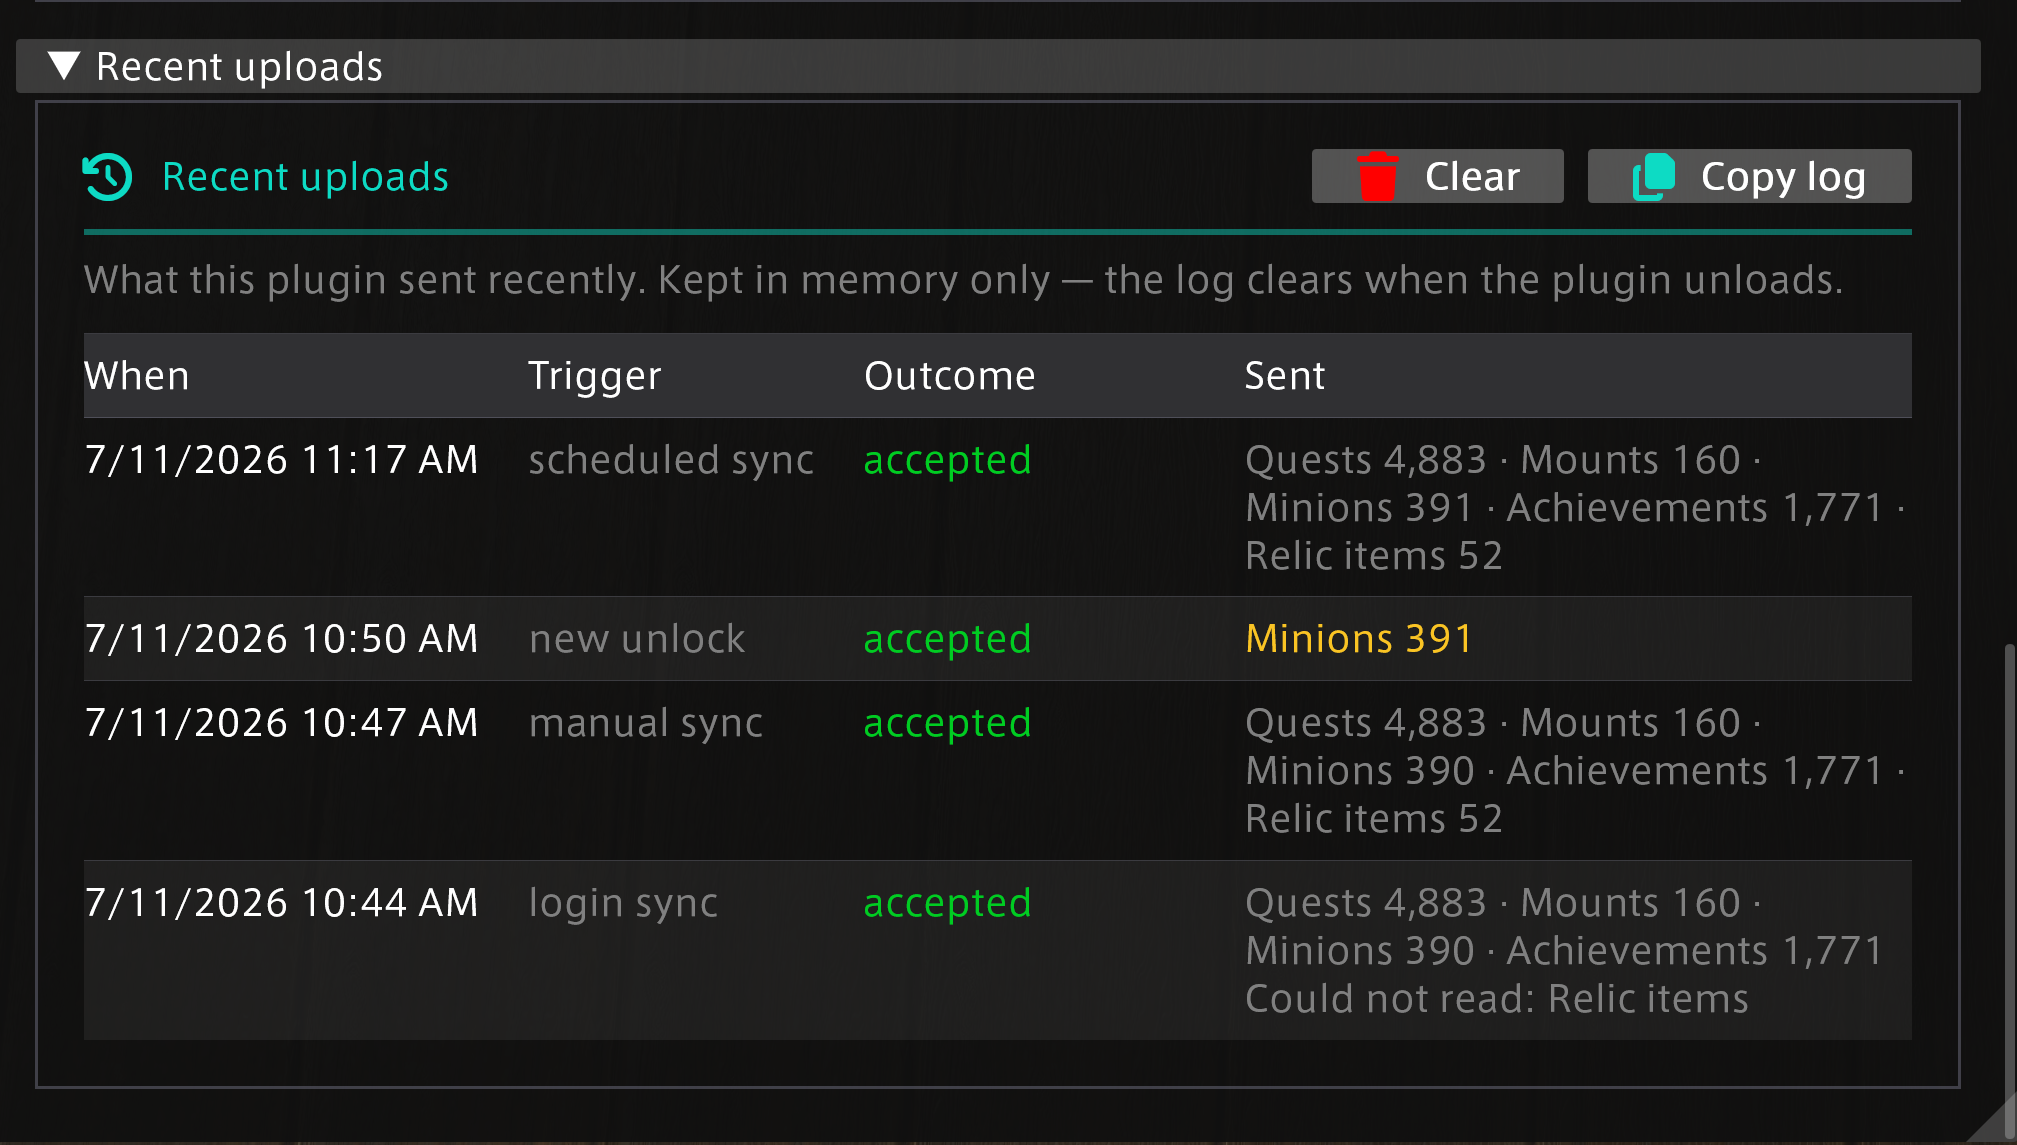
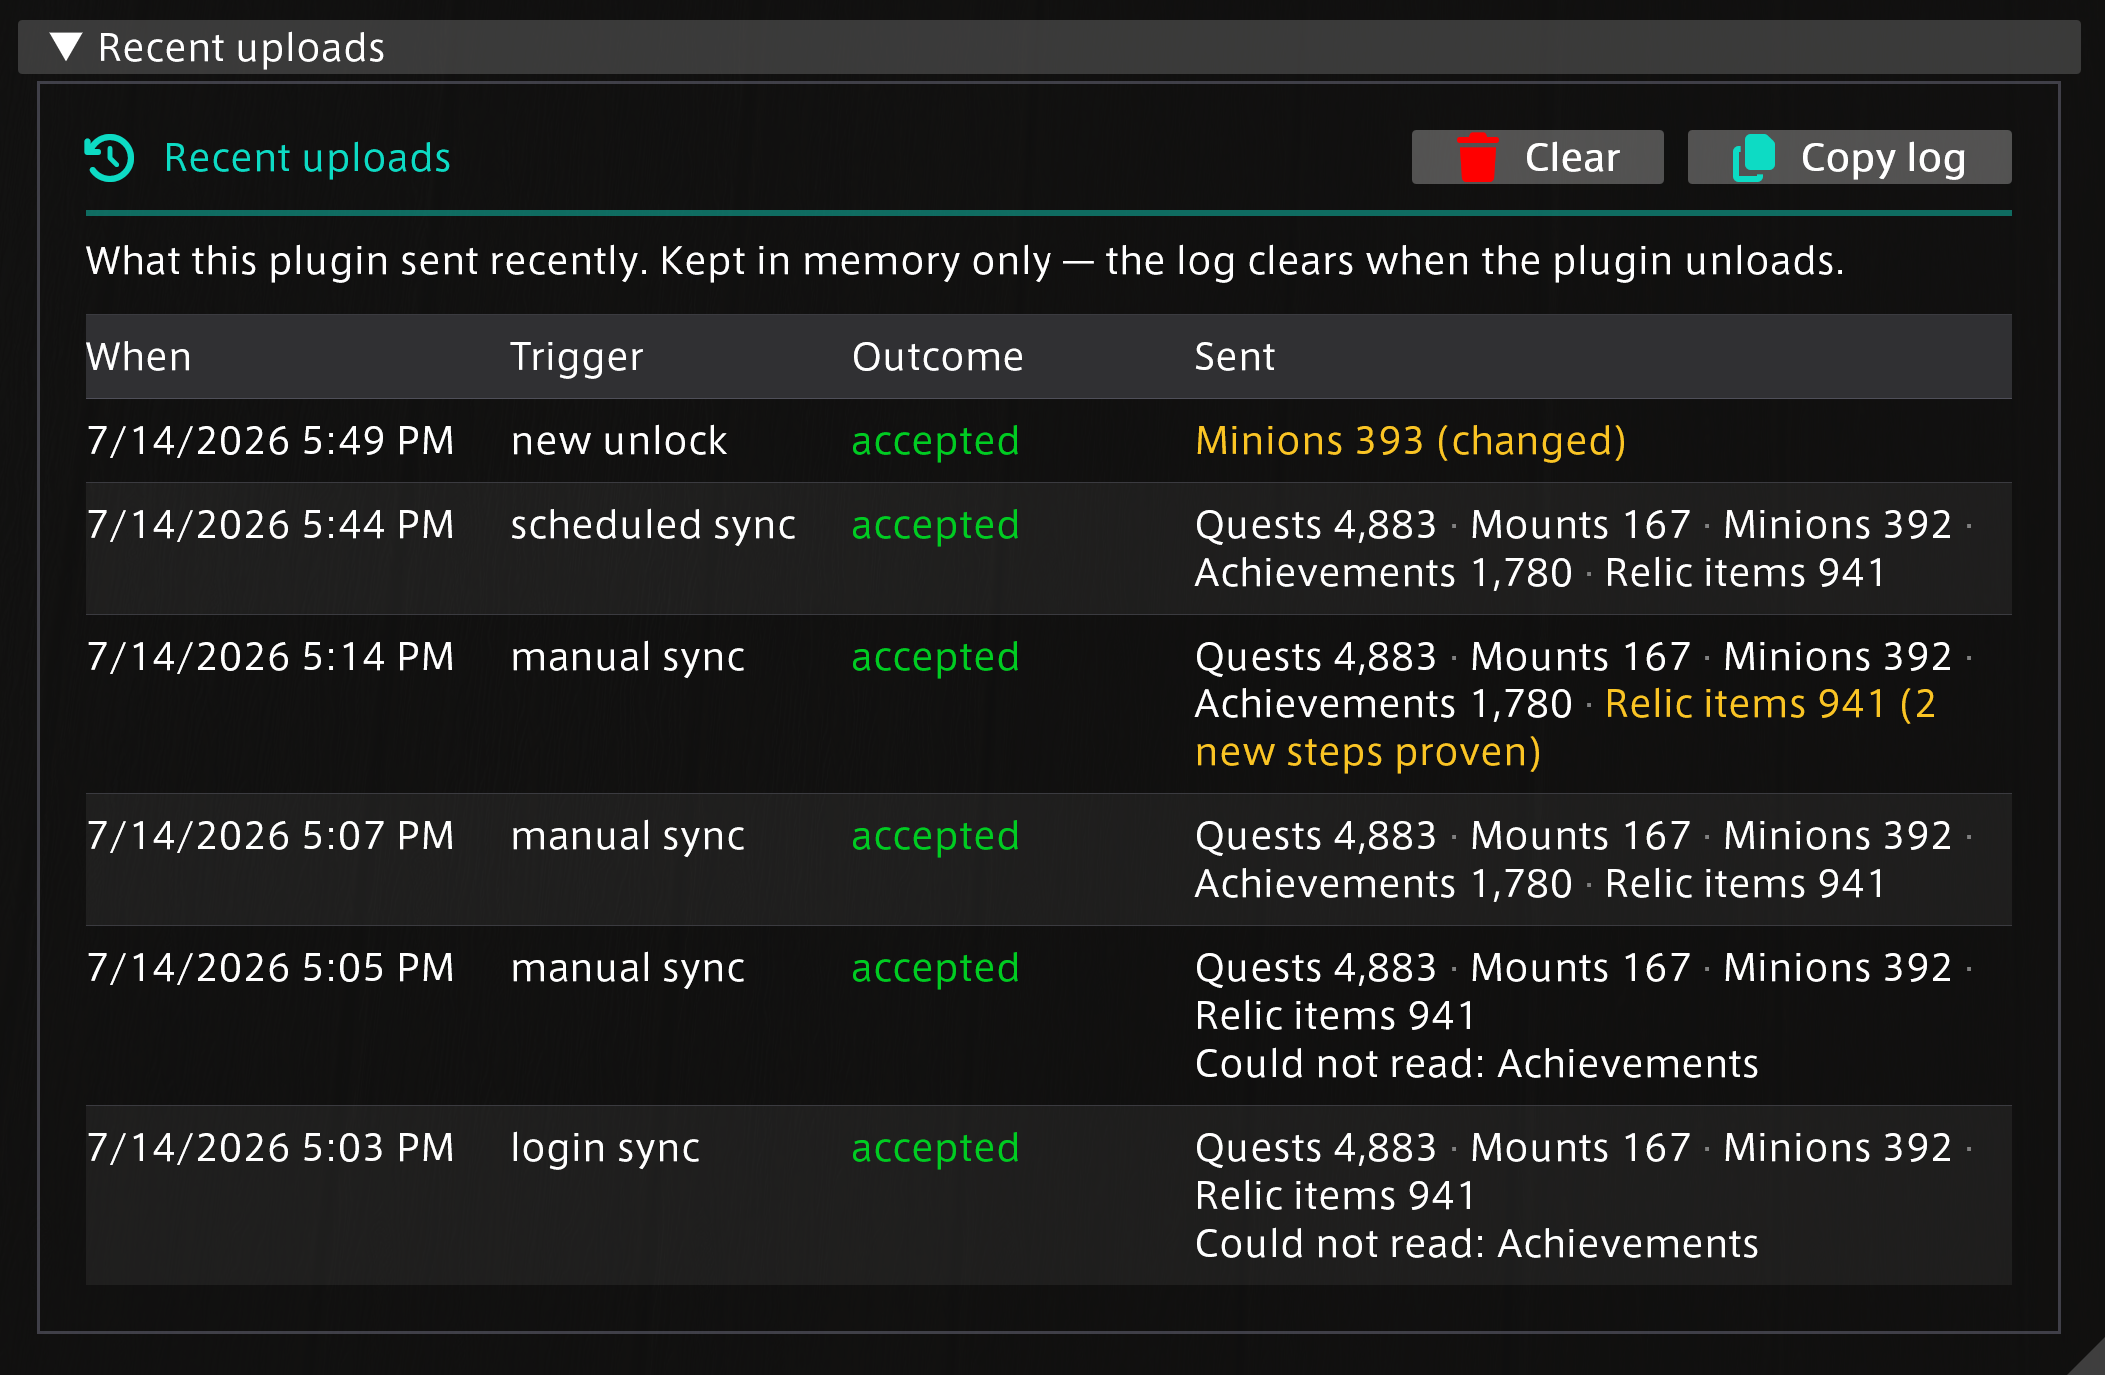
feat(sync): warn once when the item manifest exceeds the scan ceiling
- Warn once per manifest version when the server asks about more ids than the 5,000-id scan cap
- Refresh the settings gallery screenshot: the upload log with a scheduled sync and proof note

diff --git a/tests/XIVShinies.SyncPlugin.Tests/Collectors/CollectContextTests.cs b/tests/XIVShinies.SyncPlugin.Tests/Collectors/CollectContextTests.cs
@@ -179,6 +179,122 @@ public class CollectContextTests
         Assert.Equal(oversized[CollectContext.MaxManifestItems - 1], bounded[^1]);
     }
 
+    // --- Truncation flag ---------------------------------------------------------------------
+    // The cap truncates silently at the point of use; this flag is how the orchestrator learns a
+    // clip happened so it can say so in the log. "Some ids are not being scanned" must be
+    // observable — a server bug serving an oversized manifest would otherwise read as
+    // mysteriously missing counts.
+
+    [Fact]
+    public void The_truncation_flag_is_off_without_a_config()
+    {
+        var context = new CollectContext { RemoteConfig = null };
+
+        Assert.False(context.ManifestTruncated);
+    }
+
+    [Fact]
+    public void The_truncation_flag_is_off_for_a_sane_flat_manifest()
+    {
+        var context = new CollectContext { RemoteConfig = ConfigWith(new uint[] { 1, 2, 3 }) };
+
+        Assert.False(context.ManifestTruncated);
+    }
+
+    [Fact]
+    public void The_truncation_flag_is_on_for_an_oversized_flat_manifest()
+    {
+        var oversized = Enumerable.Range(1, CollectContext.MaxManifestItems + 1)
+            .Select(id => (uint)id)
+            .ToArray();
+        var context = new CollectContext { RemoteConfig = ConfigWith(oversized) };
+
+        Assert.True(context.ManifestTruncated);
+    }
+
+    // A manifest of exactly the cap fits whole — nothing was clipped, so nothing to warn about.
+    [Fact]
+    public void The_truncation_flag_is_off_at_exactly_the_cap()
+    {
+        var exact = Enumerable.Range(1, CollectContext.MaxManifestItems)
+            .Select(id => (uint)id)
+            .ToArray();
+        var context = new CollectContext { RemoteConfig = ConfigWith(exact) };
+
+        Assert.False(context.ManifestTruncated);
+    }
+
+    [Fact]
+    public void The_truncation_flag_is_on_for_an_oversized_enabled_group_union()
+    {
+        var oversized = Enumerable.Range(1, CollectContext.MaxManifestItems + 1)
+            .Select(id => (uint)id)
+            .ToArray();
+        var context = new CollectContext
+        {
+            RemoteConfig = ConfigWithGroups(("relic-proofs", oversized, true)),
+            EnabledItemGroupKeys = new HashSet<string> { "relic-proofs" },
+        };
+
+        Assert.True(context.ManifestTruncated);
+    }
+
+    // The union dedupes before it truncates, so the flag must count the way the union does: two
+    // groups sharing most of their ids can sum past the cap while the deduped union fits whole.
+    [Fact]
+    public void The_truncation_flag_counts_deduped_ids_not_the_raw_group_sum()
+    {
+        var shared = Enumerable.Range(1, CollectContext.MaxManifestItems - 1)
+            .Select(id => (uint)id)
+            .ToArray();
+        var context = new CollectContext
+        {
+            // Raw sum is ~2x the cap; the deduped union is cap - 1 ids plus one extra.
+            RemoteConfig = ConfigWithGroups(
+                ("a", shared, true),
+                ("b", shared.Append(900_000u).ToArray(), false)),
+            EnabledItemGroupKeys = new HashSet<string> { "a", "b" },
+        };
+
+        Assert.False(context.ManifestTruncated);
+    }
+
+    // Same fallback the manifest itself takes: an empty groups array means "no groups", so an
+    // oversized FLAT manifest must still raise the flag — routing it into the (empty) group loop
+    // would return false and mask a real clip.
+    [Fact]
+    public void The_truncation_flag_falls_back_to_the_flat_manifest_for_an_empty_group_list()
+    {
+        var oversized = Enumerable.Range(1, CollectContext.MaxManifestItems + 1)
+            .Select(id => (uint)id)
+            .ToArray();
+        var config = ConfigWith(oversized) with
+        {
+            ItemManifestGroups = Array.Empty<ItemManifestGroup>(),
+        };
+
+        var context = new CollectContext { RemoteConfig = config };
+
+        Assert.True(context.ManifestTruncated);
+    }
+
+    [Fact]
+    public void The_truncation_flag_ignores_disabled_groups()
+    {
+        var oversized = Enumerable.Range(1, CollectContext.MaxManifestItems + 1)
+            .Select(id => (uint)id)
+            .ToArray();
+        var context = new CollectContext
+        {
+            RemoteConfig = ConfigWithGroups(
+                ("small", new uint[] { 1 }, true),
+                ("huge", oversized, false)),
+            EnabledItemGroupKeys = new HashSet<string> { "small" },
+        };
+
+        Assert.False(context.ManifestTruncated);
+    }
+
     [Fact]
     public void The_enabled_group_list_is_empty_without_a_config()
     {

diff --git a/src/XIVShinies.SyncPlugin/Collectors/CollectContext.cs b/src/XIVShinies.SyncPlugin/Collectors/CollectContext.cs
@@ -94,6 +94,46 @@ public sealed record CollectContext
     }
 
     /// <summary>
+    /// True when <see cref="ItemManifest"/> was clipped at <see cref="MaxManifestItems"/> —
+    /// the server asked about more ids than the plugin is willing to scan, and the tail is not
+    /// being reported.
+    /// </summary>
+    /// <remarks>
+    /// The clipping itself is silent at the point of use (a bounded scan must not depend on
+    /// anyone noticing); this flag is how the orchestrator learns it happened so it can say so
+    /// in the log. It counts the way the union does — deduped, enabled groups only — so it is
+    /// true exactly when <see cref="ItemManifest"/> left ids behind.
+    /// </remarks>
+    public bool ManifestTruncated
+    {
+        get
+        {
+            if (RemoteConfig is null)
+                return false;
+
+            // Mirrors ItemManifest's branch: groups when the server sent any, flat otherwise.
+            if (RemoteConfig.ItemManifestGroups is { Count: > 0 })
+            {
+                // Count deduped ids across the enabled groups, stopping as soon as the cap is
+                // exceeded — the answer is settled at that point, so the rest need not be walked.
+                var seen = new HashSet<uint>();
+                foreach (var group in EnabledGroups)
+                {
+                    foreach (var id in group.Ids)
+                    {
+                        if (seen.Add(id) && seen.Count > MaxManifestItems)
+                            return true;
+                    }
+                }
+
+                return false;
+            }
+
+            return RemoteConfig.ItemManifest.Count > MaxManifestItems;
+        }
+    }
+
+    /// <summary>
     /// Union the ids from all enabled groups into a single manifest, with deduplication and
     /// truncation to <see cref="MaxManifestItems"/>.
     /// </summary>

diff --git a/src/XIVShinies.SyncPlugin/Sync/SyncManager.cs b/src/XIVShinies.SyncPlugin/Sync/SyncManager.cs
@@ -165,6 +165,17 @@ internal sealed class SyncManager : IDisposable
     private volatile bool hasCollected;
 
     /// <summary>
+    /// The manifest version the truncation warning was last logged for, or null when none has
+    /// been. Keeps the warning at one line per oversized manifest instead of one per sweep —
+    /// the condition only changes when the server serves a different manifest.
+    /// </summary>
+    /// <remarks>
+    /// Framework thread only (written and read inside the collection pass), so it follows the
+    /// same single-writer discipline as the identity fields: one writer, one thread, no locks.
+    /// </remarks>
+    private string? truncationWarnedForManifest;
+
+    /// <summary>
     /// Set when the server reported a failure only the user can fix. Suppresses all further work
     /// until the user intervenes, rather than looping against a server that will keep refusing.
     /// </summary>
@@ -748,6 +759,22 @@ internal sealed class SyncManager : IDisposable
             // true whether or not the resulting payload ever reaches the server (it may be empty,
             // rejected, or halted).
             hasCollected = true;
+
+            // The manifest cap clips silently at the point of use (a bounded scan must not depend
+            // on anyone noticing), so this is where the clip becomes visible: without it, a server
+            // bug serving an oversized manifest would read as mysteriously missing counts. Warned
+            // once per manifest version — the sweep cadence would otherwise repeat it every pass.
+            // The wording states the manifest fact rather than describing this pass's scan: the
+            // flag is config-derived, so it can be true on a pass that ran no item scan at all
+            // (an unlock pass for another category, or the items category switched off).
+            if (snapshot.ManifestTruncated && truncationWarnedForManifest != config?.ManifestVersion)
+            {
+                truncationWarnedForManifest = config?.ManifestVersion;
+                log.Warning(
+                    $"The server's item manifest exceeds the {CollectContext.MaxManifestItems}-id " +
+                    $"ceiling; ids past the first {CollectContext.MaxManifestItems} will not be " +
+                    "scanned or reported.");
+            }
 
             // Bound every category to the contract's caps before anything downstream sees it.
             // An over-cap payload is rejected whole by the server (400), losing every category

diff --git a/tests/XIVShinies.SyncPlugin.Tests/Collectors/CollectorRunnerTests.cs b/tests/XIVShinies.SyncPlugin.Tests/Collectors/CollectorRunnerTests.cs
@@ -110,6 +110,33 @@ public class CollectorRunnerTests
         Assert.DoesNotContain(UnknownCategory, snapshot.ManifestDrivenKeys);
     }
 
+    // The context's truncation verdict must reach the snapshot, because the orchestrator (which
+    // holds the logger) sees only the snapshot — the runner reports the fact, the caller decides
+    // what to do with it, the same handoff the snapshot uses for durations.
+    [Fact]
+    public void The_snapshot_carries_the_manifest_truncation_verdict()
+    {
+        var oversized = new uint[CollectContext.MaxManifestItems + 1];
+        for (var i = 0; i < oversized.Length; i++)
+            oversized[i] = (uint)(i + 1);
+
+        var config = RemoteConfig() with { ItemManifest = oversized };
+
+        var snapshot = CollectorRunner.Run(
+            new[] { Collecting(UnknownCategory, 42) }, OptedIn(UnknownCategory), config);
+
+        Assert.True(snapshot.ManifestTruncated);
+    }
+
+    [Fact]
+    public void The_snapshot_reports_no_truncation_for_a_sane_manifest()
+    {
+        var snapshot = CollectorRunner.Run(
+            new[] { Collecting(UnknownCategory, 42) }, OptedIn(UnknownCategory), RemoteConfig());
+
+        Assert.False(snapshot.ManifestTruncated);
+    }
+
     [Fact]
     public void A_category_the_user_never_opted_into_is_omitted()
     {

diff --git a/src/XIVShinies.SyncPlugin/Collectors/CollectorRunner.cs b/src/XIVShinies.SyncPlugin/Collectors/CollectorRunner.cs
@@ -72,6 +72,16 @@ public sealed record CollectionSnapshot
     // Not `required`, like the fields above: an empty set is the honest default for a test
     // snapshot that has no manifest-driven categories.
     public IReadOnlySet<string> ManifestDrivenKeys { get; init; } = new HashSet<string>();
+
+    /// <summary>
+    /// True when this pass's item manifest was clipped at the client's ceiling (see
+    /// <see cref="CollectContext.ManifestTruncated"/>) — the server asked about more ids than
+    /// the plugin will scan. A fact about the config, not about this pass's scan: it holds even
+    /// when the pass ran no item scan at all. Carried here because the orchestrator, which holds
+    /// the logger, sees only the snapshot: the runner reports the fact, the caller decides what
+    /// to do with it.
+    /// </summary>
+    public bool ManifestTruncated { get; init; }
 }
 
 /// <summary>
@@ -187,6 +197,7 @@ public static class CollectorRunner
             Durations = durations,
             SourceNotes = sourceNotes,
             ManifestDrivenKeys = manifestDrivenKeys,
+            ManifestTruncated = context.ManifestTruncated,
         };
     }
 }